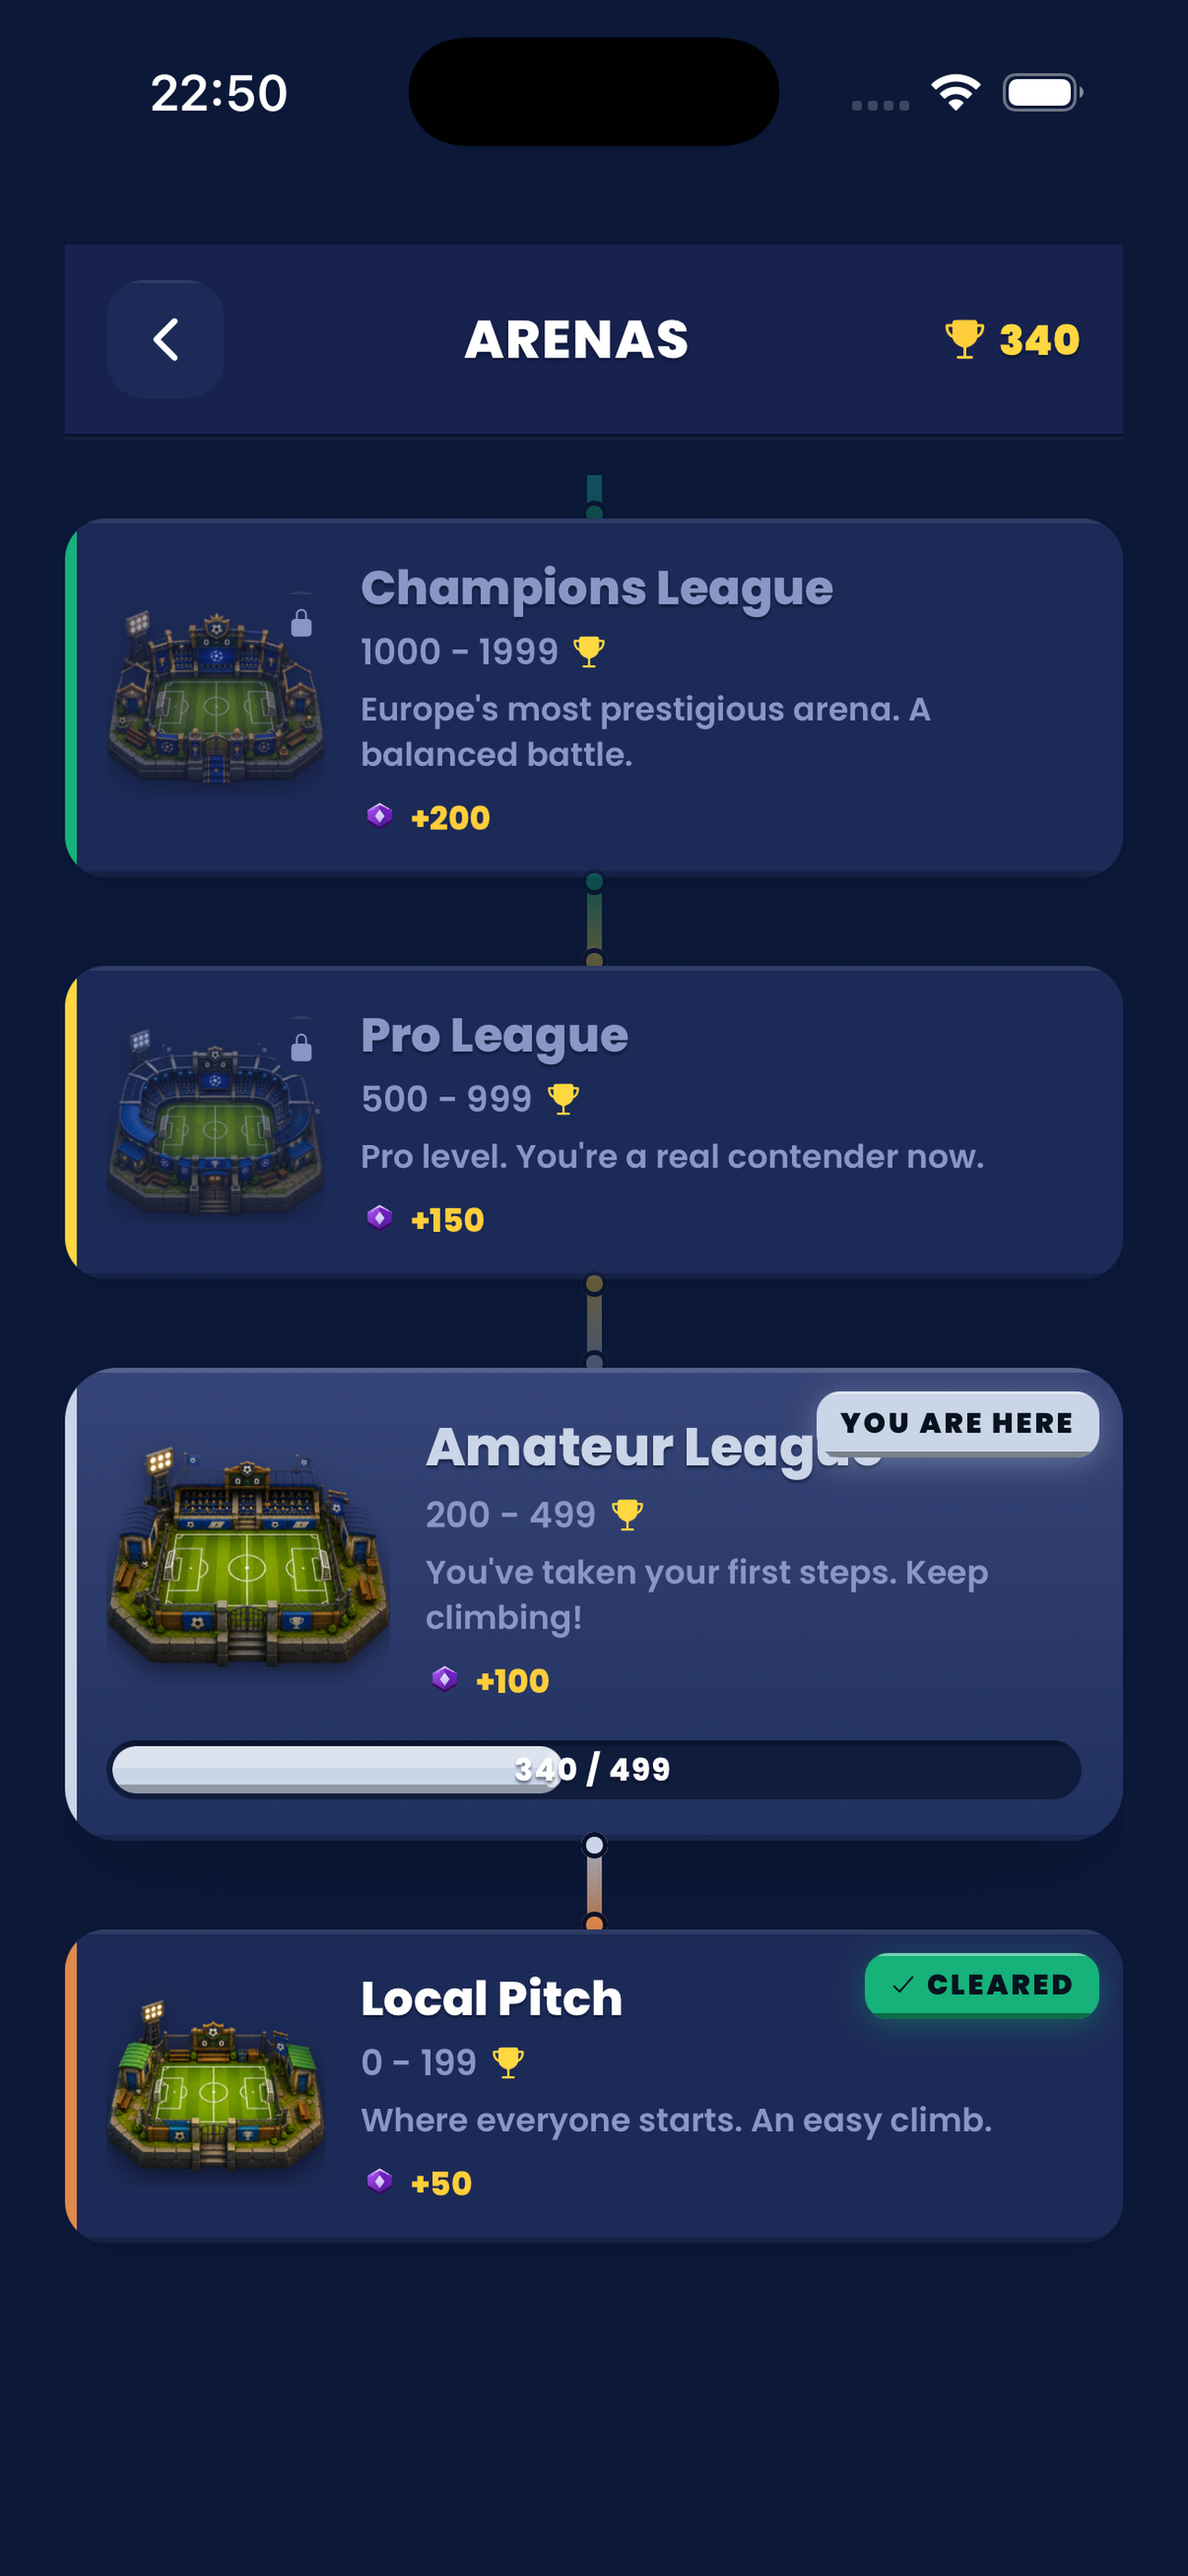
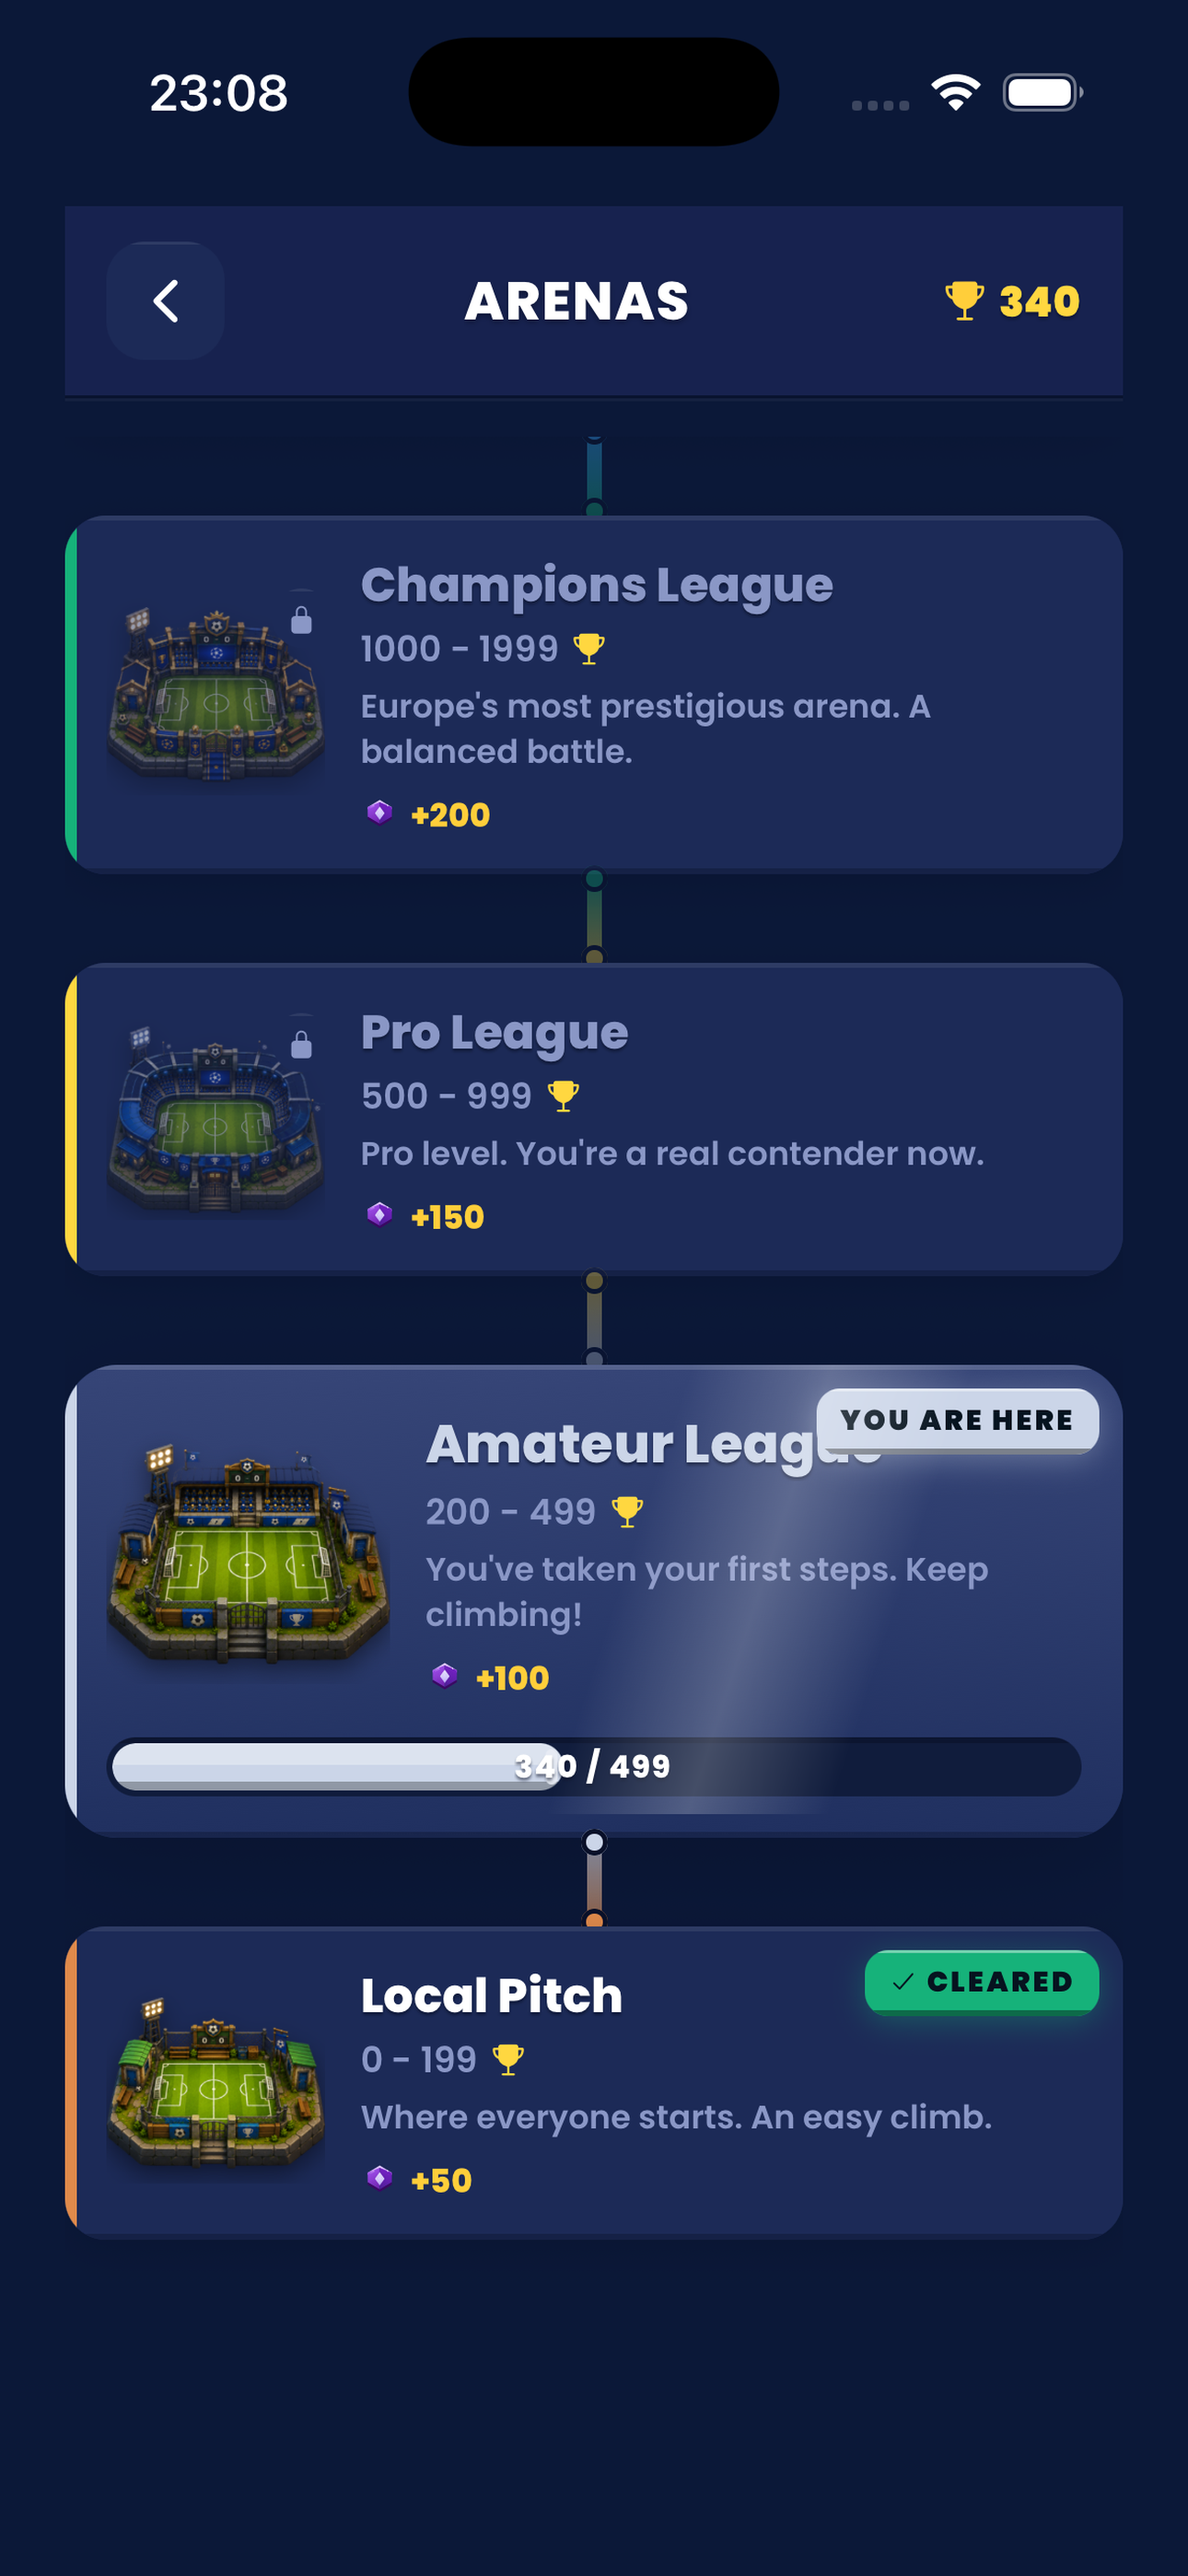
fix(ui): üst boşluk UYGULAMADA da sıkılaştırıldı + ekran görüntüleri yenilendi
Kullanıcı haklıydı: yalnız çekimlerde değil, uygulamanın kendisinde de her
ekranın tepesinde fazla boşluk vardı. Yığın: kök safe-area (59pt) + Screen'in
her yöne 22pt dolgusu → başlıklar 81pt'te başlıyordu.

- styles.screen: üst dolgu 22→10 (yan/alt 22 kaldı) — Arkadaşlar, maç
  ekranları, Arenalar dahil Screen kullanan her ekran 12pt yukarı alındı.
- Maç üst barı (çıkış + oyuncu şeridi): marginTop 4→0.

Ekran görüntüleri sıkılaştırılmış halden yeniden çekildi. Post artık bandı
sabit değil ADAPTIF kesiyor (her karede içeriğin gerçek başlangıcı ölçülüp
durum çubuğunun 12pt altına oturtuluyor) — sabit kesim bir turda 59pt artık
bırakmış, ikinci turda başlıkları tıraşlamıştı; ölçüm ikisini de bitirdi.
TR+EN setleri (5'er kare) ASC 1.0.1'e yeniden yüklendi.

diff --git a/app/src/screens.tsx b/app/src/screens.tsx
@@ -4643,7 +4643,7 @@ export function PickTeamScreen({ state, actions, tutorial }: Props) {
   // Top chrome shared by every pick state: exit button + opponent HUD, then title + timer.
   const header = (title: string) => (
     <>
-      <View style={{ flexDirection: 'row', alignItems: 'center', gap: 10, marginTop: 4, marginBottom: 8 }}>
+      <View style={{ flexDirection: 'row', alignItems: 'center', marginTop: 0, gap: 10, marginBottom: 8 }}>
         <MatchExitButton onPress={handleLeave} />
         <PlayerBar state={state} onEmotePress={tutorial ? undefined : () => setEmoteOpen(true)} />
       </View>
@@ -4663,7 +4663,7 @@ export function PickTeamScreen({ state, actions, tutorial }: Props) {
   if (state.picked) {
     return (
       <Screen>
-        <View style={{ flexDirection: 'row', alignItems: 'center', gap: 10, marginTop: 4, marginBottom: 8 }}>
+        <View style={{ flexDirection: 'row', alignItems: 'center', marginTop: 0, gap: 10, marginBottom: 8 }}>
           <MatchExitButton onPress={handleLeave} />
           <PlayerBar state={state} onEmotePress={tutorial ? undefined : () => setEmoteOpen(true)} />
         </View>
@@ -11794,7 +11794,10 @@ export function LevelRoadModal({ visible, profile, onClose, onClaim, onBuyPremiu
 }
 
 const styles = StyleSheet.create({
-  screen: { flex: 1, backgroundColor: 'transparent', padding: 22, justifyContent: 'center' },
+  // Top padding is deliberately tighter than the sides: the app root already
+  // pays the safe-area inset, and 22pt more read as a void above every header
+  // ("üstte çok boşluk"). Sides/bottom keep the original breathing room.
+  screen: { flex: 1, backgroundColor: 'transparent', paddingHorizontal: 22, paddingTop: 10, paddingBottom: 22, justifyContent: 'center' },
   center: { alignItems: 'center', gap: 6 },
   h1: { color: theme.text, fontSize: 18, fontFamily: 'Poppins-ExtraBold', textAlign: 'center', marginVertical: 6, letterSpacing: 0.5, ...engrave('lg') },
   label: { color: theme.muted, fontSize: 10, letterSpacing: 2, textAlign: 'center', fontFamily: 'Poppins-SemiBold' },
